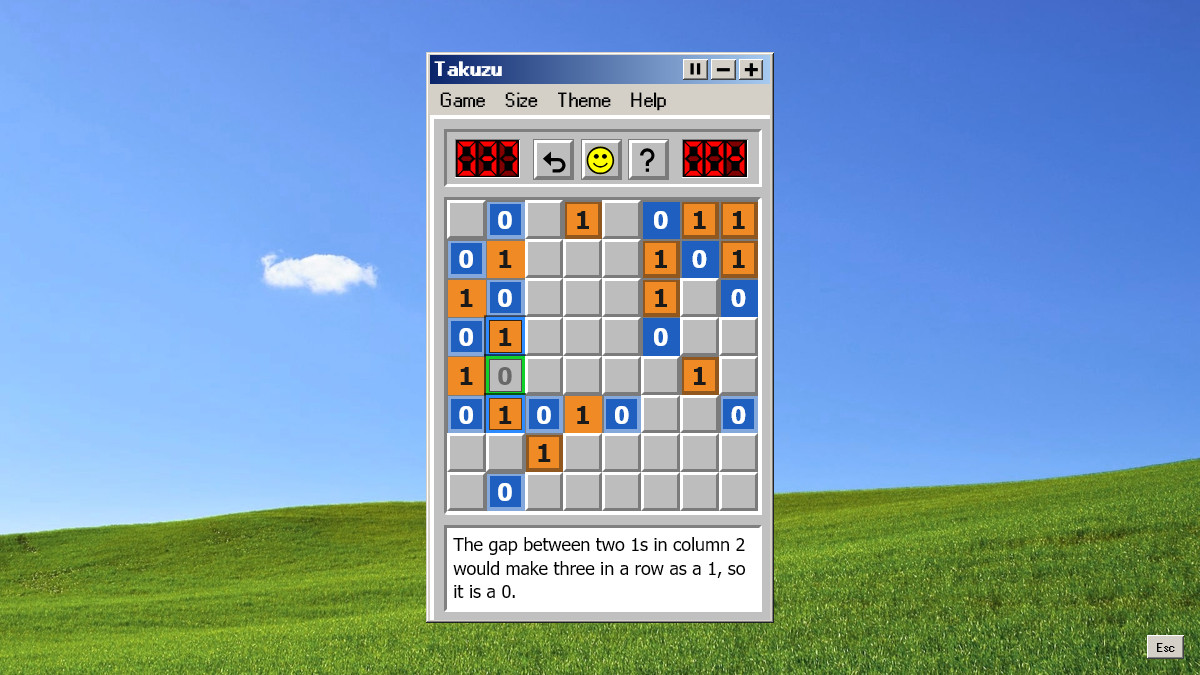
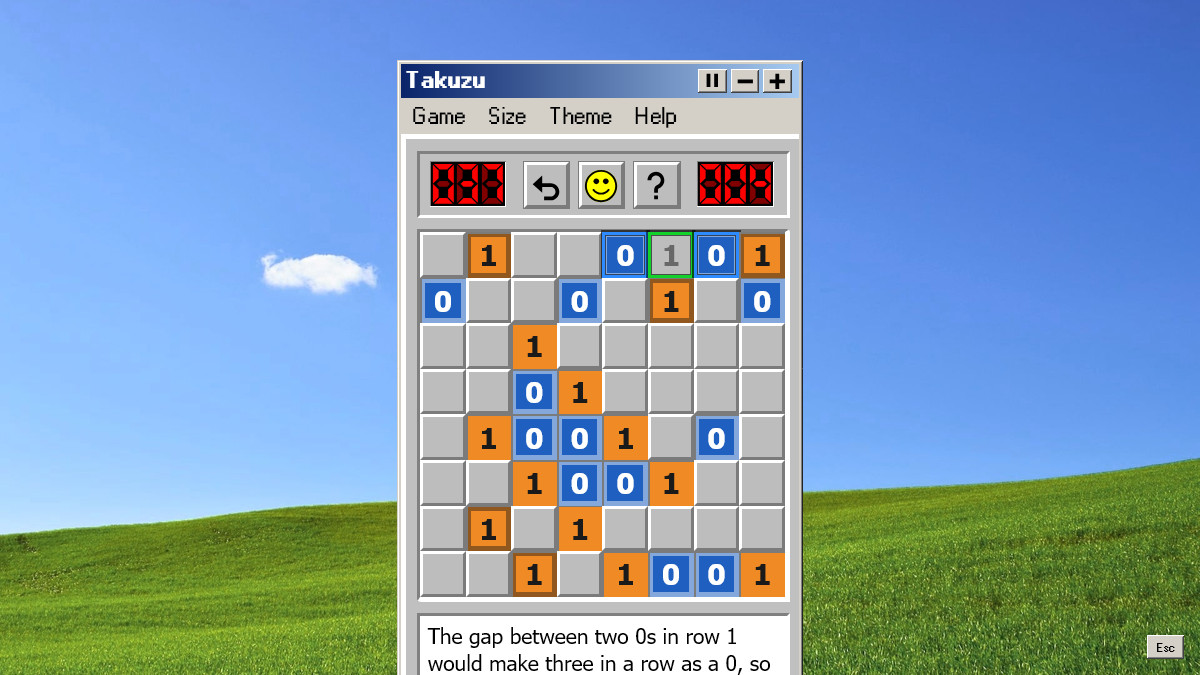
Add a Tricky level to Takuzu between Medium and Hard
Hard jumped straight from counting to weighing every way to finish a line.
Tricky now sits between them with two easier, well known special cases:
one left (a line needing just one more of a value, which can't go where it
would leave three alike) and twins (a line two cells short of matching a
full one finishes the other way round). Hard and Expert move up a place.
Old best times are cleared once and a saved Hard or Expert choice keeps
its name.

Changed region(s): [[0.3083, 0.0622, 0.6783, 1.0]]

diff --git a/src/takuzu/techniques.js b/src/takuzu/techniques.js
@@ -4,7 +4,7 @@ import { propagate, startCandidates } from './solver'
 //the reasoning a person uses, easiest first, behind hints, difficulty and generation
 //a step is { technique, level, place: [[cell, value]], sources: [cells], text }
 
-export const levels = ['easy', 'medium', 'hard', 'expert']
+export const levels = ['easy', 'medium', 'tricky', 'hard', 'expert']
 
 const capital = (text) => text[0].toUpperCase() + text.slice(1)
 const words = ['no', 'one', 'two', 'three', 'four', 'five', 'six', 'seven']
@@ -95,6 +95,69 @@ export const counts = (board, n) => {
   return steps
 }
 
+//a line needing just one more of a value: every spot where it would leave three alike is ruled out
+export const oneLeft = (board, n) => {
+  const steps = []
+  cellsOf(n).forEach((cells, line) => {
+    const empty = cells.filter((i) => board[i] === EMPTY)
+    if (empty.length < 2) return
+    for (const v of [0, 1]) {
+      if (n / 2 - cells.filter((i) => board[i] === v).length !== 1) continue
+      //try the last v in each empty cell with the other value everywhere else
+      const blocked = empty.filter((spot) => {
+        const trial = cells.map((i) => (i === spot ? v : board[i] === EMPTY ? 1 - v : board[i]))
+        return trial.some((x, k) => k >= 2 && x === trial[k - 1] && x === trial[k - 2])
+      })
+      if (!blocked.length) continue
+      if (blocked.length === empty.length) {
+        steps.push({ contradiction: true })
+        return
+      }
+      const place = blocked.map((i) => [i, 1 - v])
+      steps.push(
+        step(
+          'one-left',
+          2,
+          place,
+          cells.filter((i) => board[i] !== EMPTY),
+          `${capital(nameOf(line, n))} needs just one more ${v}, and in ${place.length > 1 ? 'any of these cells' : 'this cell'} it would leave three alike in a row, so ${result(place)}.`,
+        ),
+      )
+    }
+  })
+  return steps
+}
+
+//a line two cells short of matching a full one has to finish the other way round
+export const twins = (board, n) => {
+  const steps = []
+  const lines = cellsOf(n)
+  const all = (1 << n) - 1
+  lines.forEach((cells, line) => {
+    const empty = cells.filter((i) => board[i] === EMPTY)
+    if (empty.length !== 2) return
+    const { known, value } = readLine(board, cells)
+    const twin = lines.findIndex((other, l) => {
+      if (l === line || l < n !== line < n) return false
+      const done = readLine(board, other)
+      return done.known === all && (done.value & known) === value
+    })
+    if (twin < 0) return
+    const place = empty.map((i) => [i, 1 - board[lines[twin][cells.indexOf(i)]]])
+    if (place[0][1] === place[1][1]) return
+    steps.push(
+      step(
+        'twins',
+        2,
+        place,
+        [...cells, ...lines[twin]].filter((i) => board[i] !== EMPTY),
+        `${capital(nameOf(line, n))} matches ${nameOf(twin, n)} except for these two cells, and no two ${line < n ? 'rows' : 'columns'} may match, so they go the other way round.`,
+      ),
+    )
+  })
+  return steps
+}
+
 //the valid lines that fit what a line already shows, without repeating a full line if asked
 const fitsOf = (board, cells, n, repeats) => {
   const { known, value } = readLine(board, cells)
@@ -144,7 +207,7 @@ export const balance = (board, n) => {
     steps.push(
       step(
         'balance',
-        2,
+        3,
         place,
         cells.filter((i) => board[i] !== EMPTY),
         `${capital(nameOf(line, n))} still needs ${many(zeros, 0)} and ${many(ones, 1)}. Every way to fit them in without three alike in a row agrees here, so ${result(place)}.`,
@@ -176,7 +239,7 @@ export const repeats = (board, n) => {
     steps.push(
       step(
         'repeat',
-        2,
+        3,
         place,
         [cells, ...twins.map((l) => lines[l])].flat().filter((i) => board[i] !== EMPTY),
         `${capital(nameOf(line, n))} could otherwise end up the same as ${twins.map((l) => nameOf(l, n)).join(' or ')}, and no two ${line < n ? 'rows' : 'columns'} may match, so ${result(place)}.`,
@@ -200,7 +263,7 @@ export const whatIf = (board, n) => {
       return [
         step(
           'what-if',
-          3,
+          4,
           [[i, 1 - v]],
           [i],
           `If this cell were a ${v}, the simpler rules would soon break a rule somewhere, so it must be a ${1 - v}.`,
@@ -211,10 +274,10 @@ export const whatIf = (board, n) => {
   return []
 }
 
-const techniques = [[pairs, gaps], [counts], [balance, repeats], [whatIf]]
+const techniques = [[pairs, gaps], [counts], [oneLeft, twins], [balance, repeats], [whatIf]]
 
 //the easiest steps available, or a contradiction, using techniques up to a level
-export const nextSteps = (board, n, top = 3) => {
+export const nextSteps = (board, n, top = levels.length - 1) => {
   for (let level = 0; level <= top; level++) {
     for (const technique of techniques[level]) {
       const steps = technique(board, n)
@@ -237,7 +300,7 @@ const apply = (board, n, steps) => {
 }
 
 //the hardest level a board needs, or null when techniques up to top can't finish it
-export const rate = (givens, n, top = 3) => {
+export const rate = (givens, n, top = levels.length - 1) => {
   const board = givens.slice()
   let hardest = 0
   while (!full(board)) {

diff --git a/src/takuzu/takuzu.test.js b/src/takuzu/takuzu.test.js
@@ -1,7 +1,8 @@
 import { expect, it } from 'vitest'
 import { EMPTY, cellsOf, emptyBoard, linesOf, readLine, sizes, solved, violations } from './rules'
 import { countSolutions, propagate, solve, startCandidates } from './solver'
-import { levels, nextSteps, rate, repeats } from './techniques'
+import { levels, nextSteps, oneLeft, rate, repeats, twins } from './techniques'
+import { allowed } from './Menu'
 import { makeGame, makePuzzle, makeSolution, random } from './generate'
 import { completeWithErrors, findHint } from './hint'
 
@@ -122,7 +123,7 @@ it('fills the same cells with every technique up to hard as line propagation doe
     const ladder = board.slice()
     let broken = false
     for (;;) {
-      const { contradiction, steps } = nextSteps(ladder, n, 2)
+      const { contradiction, steps } = nextSteps(ladder, n, 3)
       if (contradiction) broken = true
       if (contradiction || !steps.length) break
       steps.forEach(({ place }) => place.forEach(([i, v]) => (ladder[i] = v)))
@@ -187,7 +188,7 @@ it('marks a cell that breaks no rule yet but does not fit the solution', () => {
 it('deals every size at every level, needing exactly that level', () => {
   for (const n of sizes) {
     for (let level = 0; level < levels.length; level++) {
-      if (n === 6 && level === 3) continue
+      if (!allowed(n, level)) continue
       const { givens, solution, level: got } = makeGame(n, level, random(n * 10 + level))
       expect(got).toBe(level)
       expect(rate(givens, n).level).toBe(level)
@@ -205,7 +206,8 @@ it('finishes boards by following hints alone, every hint agreeing with the solut
     [8, 1],
     [8, 2],
     [10, 3],
-    [12, 3],
+    [10, 4],
+    [12, 4],
   ]) {
     for (let seed = 0; seed < 3; seed++) {
       const { givens, solution } = makeGame(n, level, random(seed + 100))
@@ -223,6 +225,29 @@ it('finishes boards by following hints alone, every hint agreeing with the solut
       expect(solved(board, n)).toBe(true)
     }
   }
-  for (const kind of ['pair', 'gap', 'count', 'balance', 'what-if']) expect(kinds).toContain(kind)
+  for (const kind of ['pair', 'gap', 'count', 'one-left', 'balance', 'what-if']) {
+    expect(kinds).toContain(kind)
+  }
   expect(kinds).not.toContain('reveal')
+})
+
+it('rules out spots for the last one of a value that would leave three alike', () => {
+  //row 1 needs one more 1, and in the 2nd or 5th cell it would leave three 0s together
+  const [step] = oneLeft(parse(['1.0..1', '......', '......', '......', '......', '......']), 6)
+  expect(step).toMatchObject({ technique: 'one-left', level: 2 })
+  expect(step.place).toEqual([
+    [1, 0],
+    [4, 0],
+  ])
+  expect(step.text).toMatch(/Row 1 needs just one more 1, and in any of these cells/)
+})
+
+it('turns a line two cells short of a full one the other way round', () => {
+  const [step] = twins(parse(['0110', '01..', '....', '....']), 4)
+  expect(step.place).toEqual([
+    [6, 0],
+    [7, 1],
+  ])
+  expect(step.level).toBe(2)
+  expect(step.text).toMatch(/Row 2 matches row 1 except for these two cells/)
 })

diff --git a/src/takuzu/app.jsx b/src/takuzu/app.jsx
@@ -8,7 +8,7 @@ import { listen, shellActions, shellState, shortcut } from '../shell/actions'
 import Game, { running } from './Game'
 import BestTimes from './BestTimes'
 import Prompt from './Prompt'
-import { allowed, levelNames } from './Menu'
+import { fallback, levelNames } from './Menu'
 import { EMPTY, emptyBoard, full, sizes, solved } from './rules'
 import { findHint } from './hint'
 import { deal } from './deal'
@@ -21,7 +21,7 @@ const loadChoice = () => {
   const n = sizes.includes(saved) ? saved : 8
   const level = parseInt(load('takuzu.level'), 10)
   if (!(level >= 0 && level < levelNames.length)) return { n, level: 1 }
-  return { n, level: allowed(n, level) ? level : 2 }
+  return { n, level: fallback(n, level) }
 }
 
 //an empty board until the dealer answers
@@ -104,6 +104,23 @@ const changed = (game, board, history, actions, settled = false) => {
   return { hint: null, prompt: stuck && settled, game: next }
 }
 
+//tricky arrived between medium and hard on 2026-10-29, so the old times were cleared once
+//and a saved hard or expert choice moved up a place to keep its name
+export const upgradeLadder = () => {
+  if (load('takuzu.ladder') === '5') return
+  eachSlot((n, level) => {
+    for (const key of [timeKey(n, level, false), timeKey(n, level, true)]) {
+      remove(key)
+      remove(`${key}.name`)
+    }
+  })
+  const level = parseInt(load('takuzu.level'), 10)
+  if (level >= 2) save('takuzu.level', level + 1)
+  save('takuzu.ladder', '5')
+}
+
+upgradeLadder()
+
 export const state = {
   ...shellState(),
   hint: null,
@@ -149,7 +166,7 @@ export const actions = {
       cancelAnimationFrame(game.raf)
       const n = (payload && payload.n) || game.n
       const asked = payload && payload.level !== undefined ? payload.level : game.level
-      const level = allowed(n, asked) ? asked : 2
+      const level = fallback(n, asked)
       save('takuzu.size', n)
       save('takuzu.level', level)
       const id = ++deals

diff --git a/src/takuzu/app.test.jsx b/src/takuzu/app.test.jsx
@@ -1,6 +1,6 @@
 import { afterEach, beforeEach, expect, it, vi } from 'vitest'
 import { app, h } from 'hyperapp'
-import { state, actions, view, createGame } from './app'
+import { state, actions, view, createGame, upgradeLadder } from './app'
 import { EMPTY } from './rules'
 import { makeGame, random } from './generate'
 
@@ -201,10 +201,10 @@ it('ignores the board while paused', () => {
 })
 
 it('has no expert 6x6, falling back to hard', () => {
-  start({ game: { ...dealtGame(), level: 3 } })
+  start({ game: { ...dealtGame(), level: 4 } })
   wired.reset({ n: 6 })
-  expect(now().game).toMatchObject({ n: 6, level: 2, dealing: true })
-  expect(localStorage.getItem('takuzu.level')).toBe('2')
+  expect(now().game).toMatchObject({ n: 6, level: 3, dealing: true })
+  expect(localStorage.getItem('takuzu.level')).toBe('3')
 })
 
 it('drops an answer from an older deal', async () => {
@@ -227,4 +227,22 @@ it('remembers the rain glyph choice and opens the about box', () => {
   expect(now().rain).toBe(false)
   wired.toggleAbout()
   expect(now().about).toBe(true)
+})
+
+it('clears the old best times once when tricky arrives, keeping a hard choice hard', () => {
+  localStorage.setItem('takuzu.8.2', '50')
+  localStorage.setItem('takuzu.8.2.name', 'Old')
+  localStorage.setItem('takuzu.10.3.hints', '90')
+  localStorage.setItem('takuzu.level', '2')
+  localStorage.removeItem('takuzu.ladder')
+  upgradeLadder()
+  expect(localStorage.getItem('takuzu.8.2')).toBe(null)
+  expect(localStorage.getItem('takuzu.8.2.name')).toBe(null)
+  expect(localStorage.getItem('takuzu.10.3.hints')).toBe(null)
+  expect(localStorage.getItem('takuzu.level')).toBe('3')
+  //only once
+  localStorage.setItem('takuzu.8.2', '40')
+  upgradeLadder()
+  expect(localStorage.getItem('takuzu.8.2')).toBe('40')
+  expect(localStorage.getItem('takuzu.level')).toBe('3')
 })

diff --git a/src/takuzu/Menu.jsx b/src/takuzu/Menu.jsx
@@ -5,10 +5,13 @@ import ThemeMenu from '../shell/ThemeMenu'
 import { sizes } from './rules'
 import { levels } from './techniques'
 
-export const levelNames = ['Easy', 'Medium', 'Hard', 'Expert']
+export const levelNames = ['Easy', 'Medium', 'Tricky', 'Hard', 'Expert']
 
-//expert needs room for a what-if, 6x6 never does
-export const allowed = (n, level) => !(n === 6 && level === 3)
+//6x6 has no expert, by choice
+export const allowed = (n, level) => !(n === 6 && level === levelNames.length - 1)
+
+//the level asked for, or the hardest one below it that the size allows
+export const fallback = (n, level) => (allowed(n, level) ? level : fallback(n, level - 1))
 
 const Menu = ({ state, actions }) => (
   <ul class={m.root} tabindex={-1} onfocusout={actions.toggleMenu}>

diff --git a/README.md b/README.md
@@ -31,8 +31,8 @@ Binary puzzles: fill the grid with 0s and 1s so that no row or column has three 
 | ![Full board prompt](docs/screenshots/takuzu-solarized.jpg) | ![Takuzu best times](docs/screenshots/takuzu-phosphor.jpg)    |
 
 - **Every board has exactly one solution** and can be solved by logic alone. Boards are made fresh each game: a random full grid, then clues taken away for as long as the chosen level can still finish it.
-- **Four levels** (Game menu), each needing its own reasoning: **Easy** uses pairs (two alike side by side) and gaps (a cell between two alike); **Medium** adds full counts (a line with all its 0s or all its 1s); **Hard** adds balance (every way to finish a line agrees on a cell) and no repeated lines; **Expert** adds a short what-if (a value that soon breaks a rule must be the other one). A board is only dealt at a level if it needs that level's reasoning.
-- **Five sizes** (Size menu), 6 × 6 to 14 × 14. Small boards never need a what-if, so 6 × 6 has no Expert.
+- **Five levels** (Game menu), each needing its own reasoning: **Easy** uses pairs (two alike side by side) and gaps (a cell between two alike); **Medium** adds full counts (a line with all its 0s or all its 1s); **Tricky** adds one left (a line needing just one more of a value, which can't go where it would leave three alike) and twins (a line two cells short of matching a full one finishes the other way round); **Hard** adds balance (every way to finish a line agrees on a cell) and no repeated lines in general; **Expert** adds a short what-if (a value that soon breaks a rule must be the other one). A board is only dealt at a level if it needs that level's reasoning, as puzzle collections such as Simon Tatham's Unruly grade them.
+- **Five sizes** (Size menu), 6 × 6 to 14 × 14. 6 × 6 has no Expert.
 - **Playing**: click a cell to step it through 0, 1 and empty, right-click to step back, or tap on a touch screen. Clues are framed and can't be changed. **Undo** (Ctrl+Z, the Game menu or the arrow button) takes back one change at a time.
 - **Hint** (`H`, the Game menu or the ? button): points out a broken rule first, then a cell that can't fit the only solution, and otherwise the easiest next step with the cells it reasons from outlined in blue, the cell it fills in green and the reason under the board.
 - **Show Errors** (Game menu, off by default) stripes cells that break a rule as you go. When every cell is filled but the board isn't solved, the game asks whether you want a hint, or lets you find the mistake yourself. It asks straight away when the last click left a cell on its final value, and otherwise waits a moment, so stepping the last cell through 0 on the way to 1 never sets it off.
